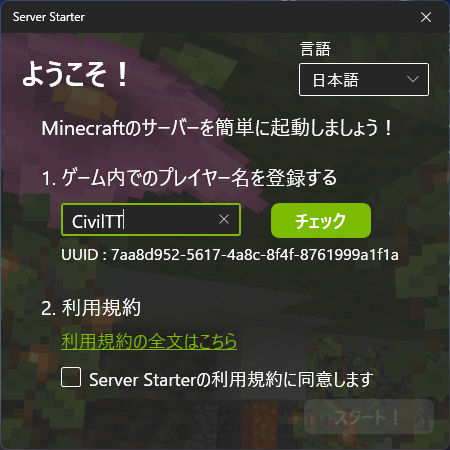
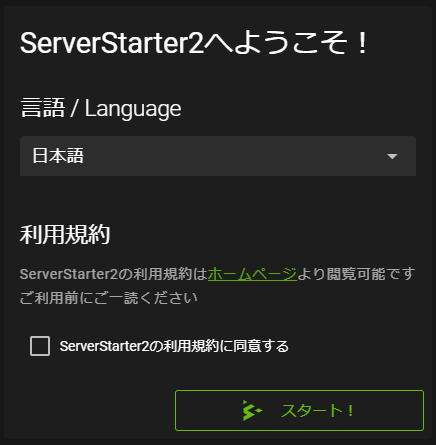
✨ Updated Introduction page for SS2

diff --git a/src/components/Introduction/HowToStart.vue b/src/components/Introduction/HowToStart.vue
@@ -1,23 +1,23 @@
+<script lang="ts" setup>
+import { ref } from 'vue';
+
+var step_intro = ref(1)
+var step_run = ref(1)
+var step_participant = ref(1)
+</script>
+
 <template>
   <q-card flat style="max-width: 100%;">
     <q-card-section>
       <h1>ServerStarterへようこそ！</h1>
-      <p>
-        ServerStarterはMinecraftのマルチサーバーをボタンクリックによって簡単に立てられるようにするソフトウェアです
-      </p>
-      <p>
-        ワンクリックでサーバーを起動し，マルチプレイの世界にダイブしましょう！
-      </p>
+      <p>ServerStarterはMinecraftのマルチサーバーをボタンクリックによって簡単に立てられるようにするソフトウェアです</p>
+      <p>ワンクリックでサーバーを起動し，マルチプレイの世界にダイブしましょう！</p>
   
       <h1>導入方法</h1>
       <q-stepper v-model="step_intro" flat vertical animated>
         <q-step :name="1" title="1. 導入" :done="step_intro > 1">
-          <p>
-            ServerStarterのインストーラーをダウンロード
-          </p>
-          <p>
-            インストーラーを起動してServerStarterをPCにインストール
-          </p>
+          <p>ServerStarterのインストーラーをダウンロード</p>
+          <p>インストーラーを起動してServerStarterをPCにインストール</p>
 
           <div class="q-pb-md">
             <q-expansion-item label="ダウンロード時に警告が出た場合" header-class="bg-orange-4">
@@ -27,9 +27,7 @@
                     ServerStarterは個人開発のため，ダウンロード数が十分な数になるまで相当の時間がかかります<br/>
                     一部のブラウザでは十分なダウンロード数のないソフトに対して警告を出すため，ソフトをダウンロードできないことがあります
                   </p>
-                  <p>
-                    Edgeでは画像のように右側の「・・・」から保存を押し，次の画面で「保持する」をクリックすることで，インストーラーのダウンロードが始まります
-                  </p>
+                  <p>Edgeでは画像のように右側の「・・・」から保存を押し，次の画面で「保持する」をクリックすることで，インストーラーのダウンロードが始まります</p>
                   <p>
                     なお，ServerStarterのソースコードは
                     <a href="https://github.com/CivilTT/ServerStarter" target="_blank" class="a">GitHub</a>
@@ -42,32 +40,41 @@
             </q-expansion-item>
           </div>
           
+          <!-- TODO: インストーラーのダウンロードパスを変更 -->
           <q-btn size="20px" color="primary" label="インストーラーのダウンロード" href="https://github.com/CivilTT/ServerStarter/releases/latest/download/Setup_ServerStarter.msi"/>
           
           <q-stepper-navigation>
             <q-btn @click="step_intro = 2" color="secondary" label="next" />
           </q-stepper-navigation>
         </q-step>
+
         <q-step :name="2" title="2. 起動" :done="step_intro > 2">
-          <p>
-            デスクトップにアイコンが作成されるため，これをダブルクリックして起動
-          </p>
+          <p>デスクトップにアイコンが作成されるため，これをダブルクリックして起動</p>
           <q-img src="@/assets/Introduction/Icon.png" width="min(200px,100%)"/>
           <q-stepper-navigation>
             <q-btn @click="step_intro = 3" color="secondary" label="next" />
             <q-btn flat @click="step_intro = 1" color="secondary" label="Back" class="q-ml-sm" />
           </q-stepper-navigation>
         </q-step>
-        <q-step :name="3" title="3. 初期設定" :done="step_intro > 3">
-          <p>
-            Minecraft内でのプレイヤー名を入力し，「チェック」を押す
-          </p>
-          <p>
-            UUIDが表示されたことを確認し，利用規約に同意すると「スタート」
-          </p>
+        
+        <q-step :name="3" title="3-1. 初期設定（利用規約）" :done="step_intro > 3">
+          <p>言語設定を確認し、利用規約に同意すれば「スタート」！</p>
           <q-img src="@/assets/Introduction/WelcomeWindow.png" width="min(500px,100%)"/>
           <q-stepper-navigation>
+            <q-btn @click="step_intro = 4" color="secondary" label="next" />
             <q-btn flat @click="step_intro = 2" color="secondary" label="Back" class="q-ml-sm" />
+          </q-stepper-navigation>
+        </q-step>
+        
+        <q-step :name="4" title="3-2. 初期設定（プレイヤー登録）" :done="step_intro > 3">
+          <p>Minecraftのプレイヤーアカウントを持っている場合は、ゲーム内でのプレイヤー名を登録しましょう！</p>
+          <q-img src="@/assets/Introduction/OwnerPlayerSetting1.png" width="min(500px,100%)"/>
+          <p>
+            自身のプレイヤー名を入力すると、以下の画像のように候補が表示されます<br>
+            「このプレイヤーを登録」ボタンを押し、「オーナーを登録」できるようになります</p>
+          <q-img src="@/assets/Introduction/OwnerPlayerSetting2.png" width="min(500px,100%)"/>
+          <q-stepper-navigation>
+            <q-btn flat @click="step_intro = 3" color="secondary" label="Back" class="q-ml-sm" />
           </q-stepper-navigation>
         </q-step>
       </q-stepper>
@@ -75,34 +82,24 @@
       <h1>サーバーの起動</h1>
       <q-stepper v-model="step_run" flat vertical animated>
         <q-step :name="1" title="1. 設定" :done="step_run > 1">
-          <p>
-            起動したいサーバーのバージョンを選択し，ワールド名を設定する
-          </p>
-          <p>
-            ワールドの細かい設定をする場合は<a class="a" href="world">ワールド設定</a>を開く
-          </p>
-          <p>
-            準備が整ったら<b>実行</b>！
-          </p>
-          <q-img src="@/assets/Introduction/MainWindow.png" width="min(500px,100%)"/>
+          <p>ワールド名を好きな名称に変更し、サーバーのバージョン指定、シングルワールドの導入設定などができます</p>
+          <p>プロパティタグやプレイヤータグでもサーバーの詳細な設定を行うことができます！</p>
+          <q-img src="@/assets/Introduction/MainWindow.png" width="min(900px,100%)"/>
           <q-stepper-navigation>
             <q-btn @click="step_run = 2" color="secondary" label="next" />
           </q-stepper-navigation>
         </q-step>
+
         <q-step :name="2" title="2. 起動" :done="step_run > 2">
-          <p>
-            Javaのインストールを求められた場合は，ページ一番下の「注意点」を参照
+          <p>準備が整ったら、「サーバータグ」を開いて、サーバーを起動しましょう！</p>
+          <q-img src="@/assets/Introduction/Server1.png" width="min(700px,100%)"/>
+
+          <p class="q-pt-md">
+            サーバーが起動するとこのような画面が表示されます<br>
+            初回起動時は起動前にEulaへの同意を求められます<br>
+            終わったときには左下の「停止」ボタンを押してサーバーを閉じましょう！
           </p>
-          <p>
-            初回起動時はいくつかのウィンドウが出た後にEulaへの同意を求められる
-          </p>
-          <p>
-            Eulaに同意すれば直ちにサーバーの黒い画面が起動する
-          </p>
-          <p>
-            終わった際は<span class="warning">stop</span>を画面内へ入力し，<b>ウィンドウの×ボタンは使わない</b>
-          </p>
-          <q-img src="@/assets/Introduction/Server.png" width="min(500px,100%)"/>
+          <q-img src="@/assets/Introduction/Server2.png" width="min(700px,100%)"/>
           <q-stepper-navigation>
             <q-btn flat @click="step_run = 1" color="secondary" label="Back" class="q-ml-sm" />
           </q-stepper-navigation>
@@ -141,32 +138,20 @@
         </q-step>
         <q-step :name="3" title="3. ほかの人がサーバーに参加する" :done="step_participant > 3">
           <p>
-            他の人がサーバーに参加するためにはサーバーの起動者に<a class="a" href="AutoPortMapping">ポート開放</a>の設定が必要
+            他の人がサーバーに参加するためにはサーバーの起動者に<a class="a" href="AutoPortMapping">ポート開放</a>の設定が必要です
           </p>
           <p>
-            サーバーの起動者でない人がサーバーに参加する際にはアドレス欄にサーバー起動者のIPアドレスを入力
+            サーバーの起動者でない人がサーバーに参加する際には、ServerStarterの画面右上に映っているIPアドレスを、Minecraftのサーバーアドレス欄に入力してください
           </p>
-          <p>
-            ServerStarterではネットワークの設定に関連するものはシステム設定に
-          </p>
-          <q-img src="@/assets/Introduction/Network.png"  width="min(500px,100%)"/>
+          <q-img src="@/assets/Introduction/ip.png"  width="min(500px,100%)"/>
           <q-stepper-navigation>
             <q-btn flat @click="step_participant = 2" color="secondary" label="Back" class="q-ml-sm" />
           </q-stepper-navigation>
         </q-step>
       </q-stepper>
     </q-card-section>
-    
   </q-card>
 </template>
-
-<script lang="ts" setup>
-import { ref } from 'vue';
-
-var step_intro = ref(1)
-var step_run = ref(1)
-var step_participant = ref(1)
-</script>
 
 <style scoped>
 .warning {

diff --git a/src/views/Introduction.vue b/src/views/Introduction.vue
@@ -1,12 +1,11 @@
 <template>
   <div class="home">
     <HowToStart/>
-    <Attention/>
+    <!-- <Attention/> -->
   </div>
 </template>
 
 <script lang="ts" setup>
-import { defineComponent } from 'vue';
 import HowToStart from '@/components/Introduction/HowToStart.vue';
 import Attention from '@/components/Introduction/Attention.vue';
 </script>
